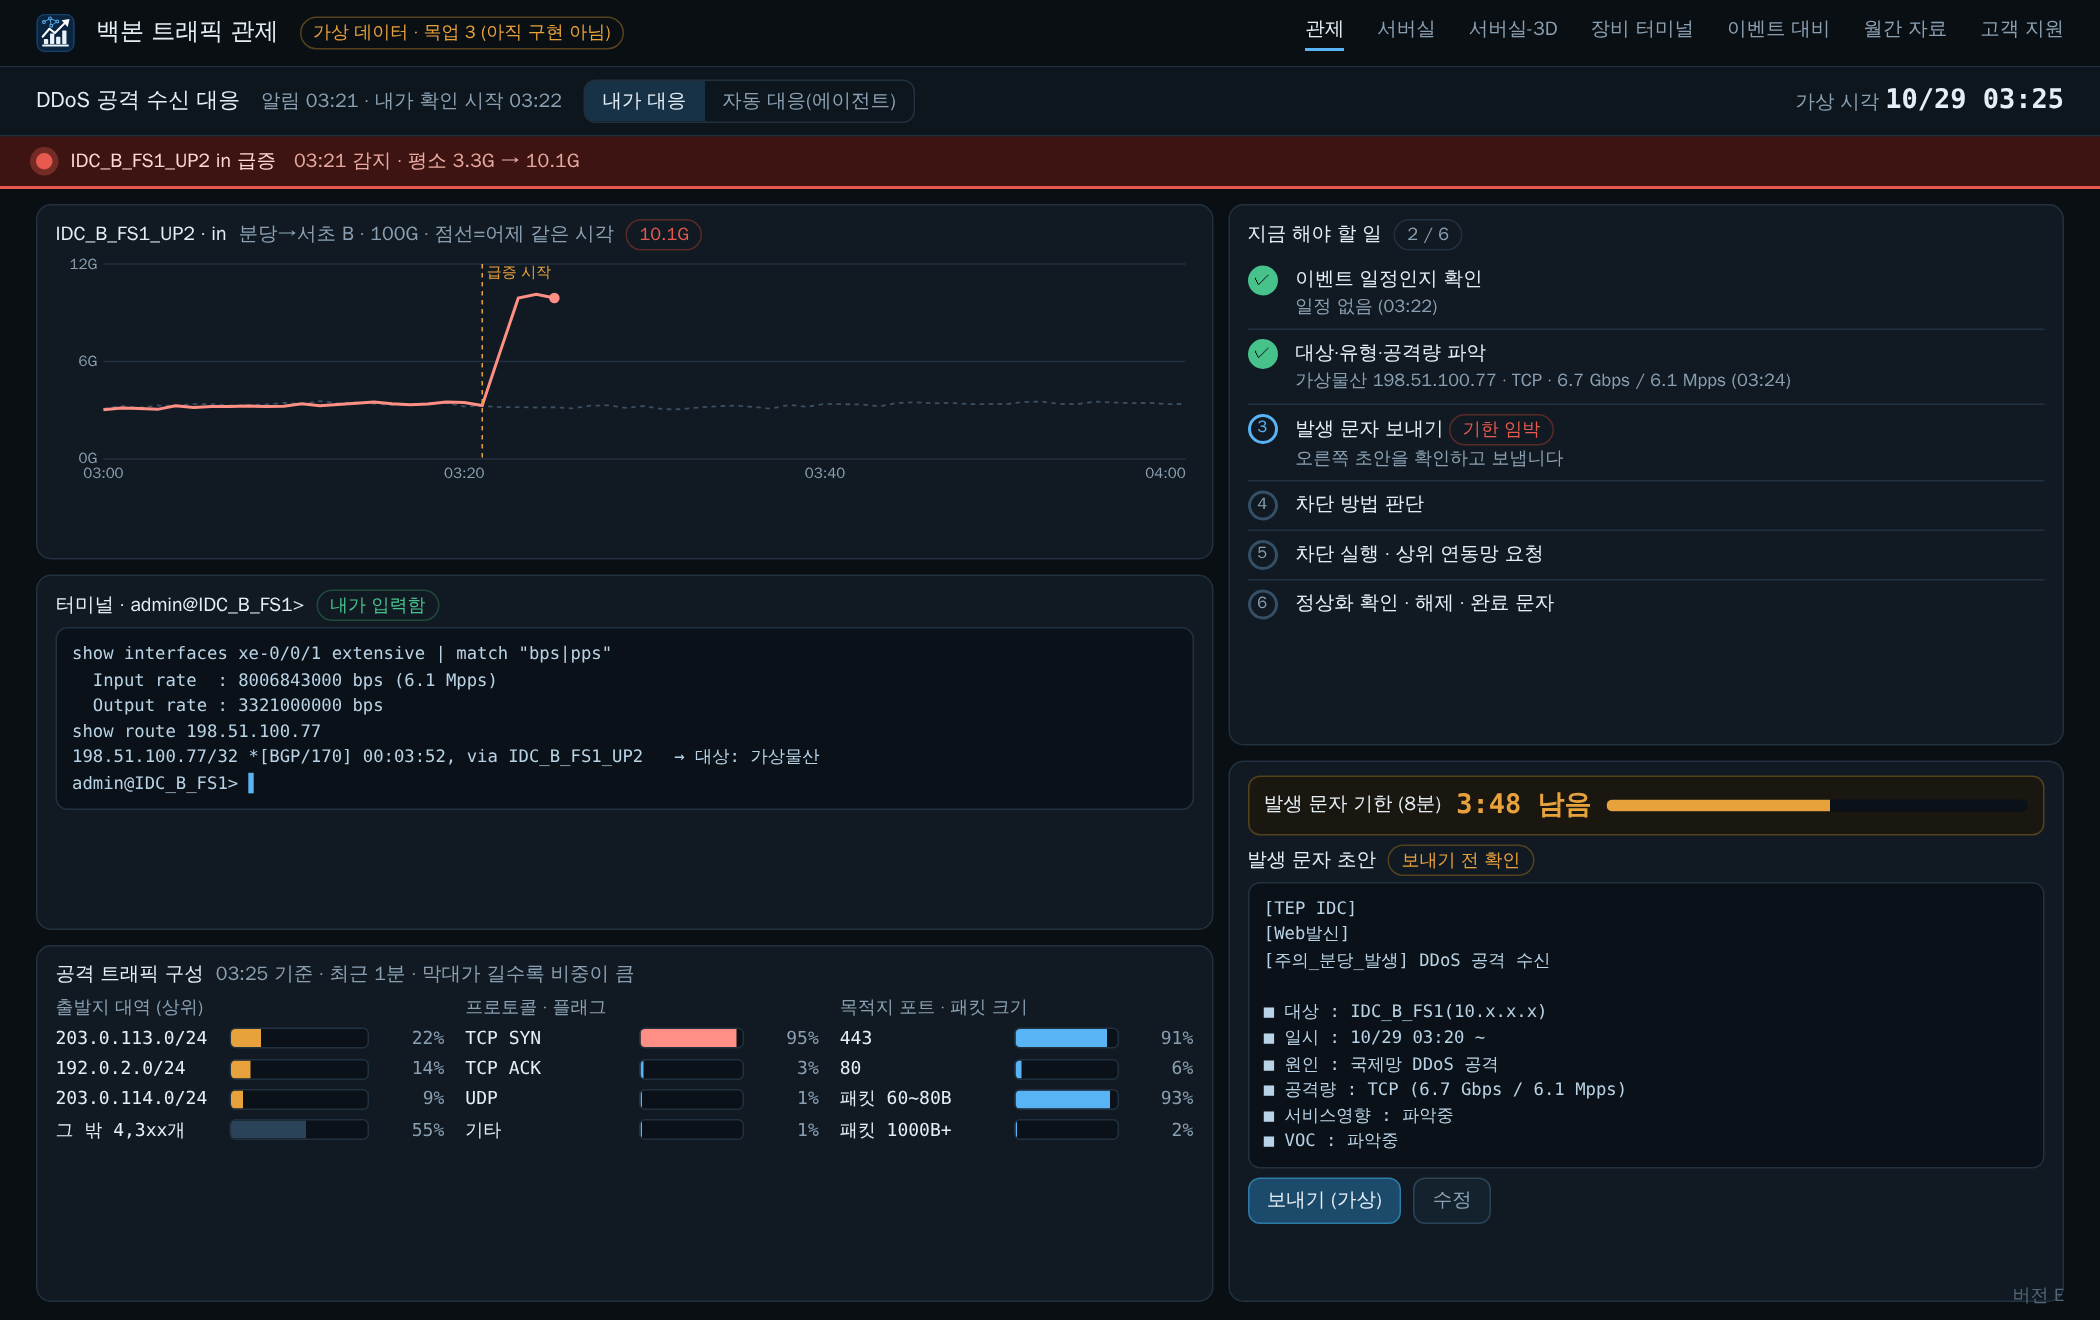
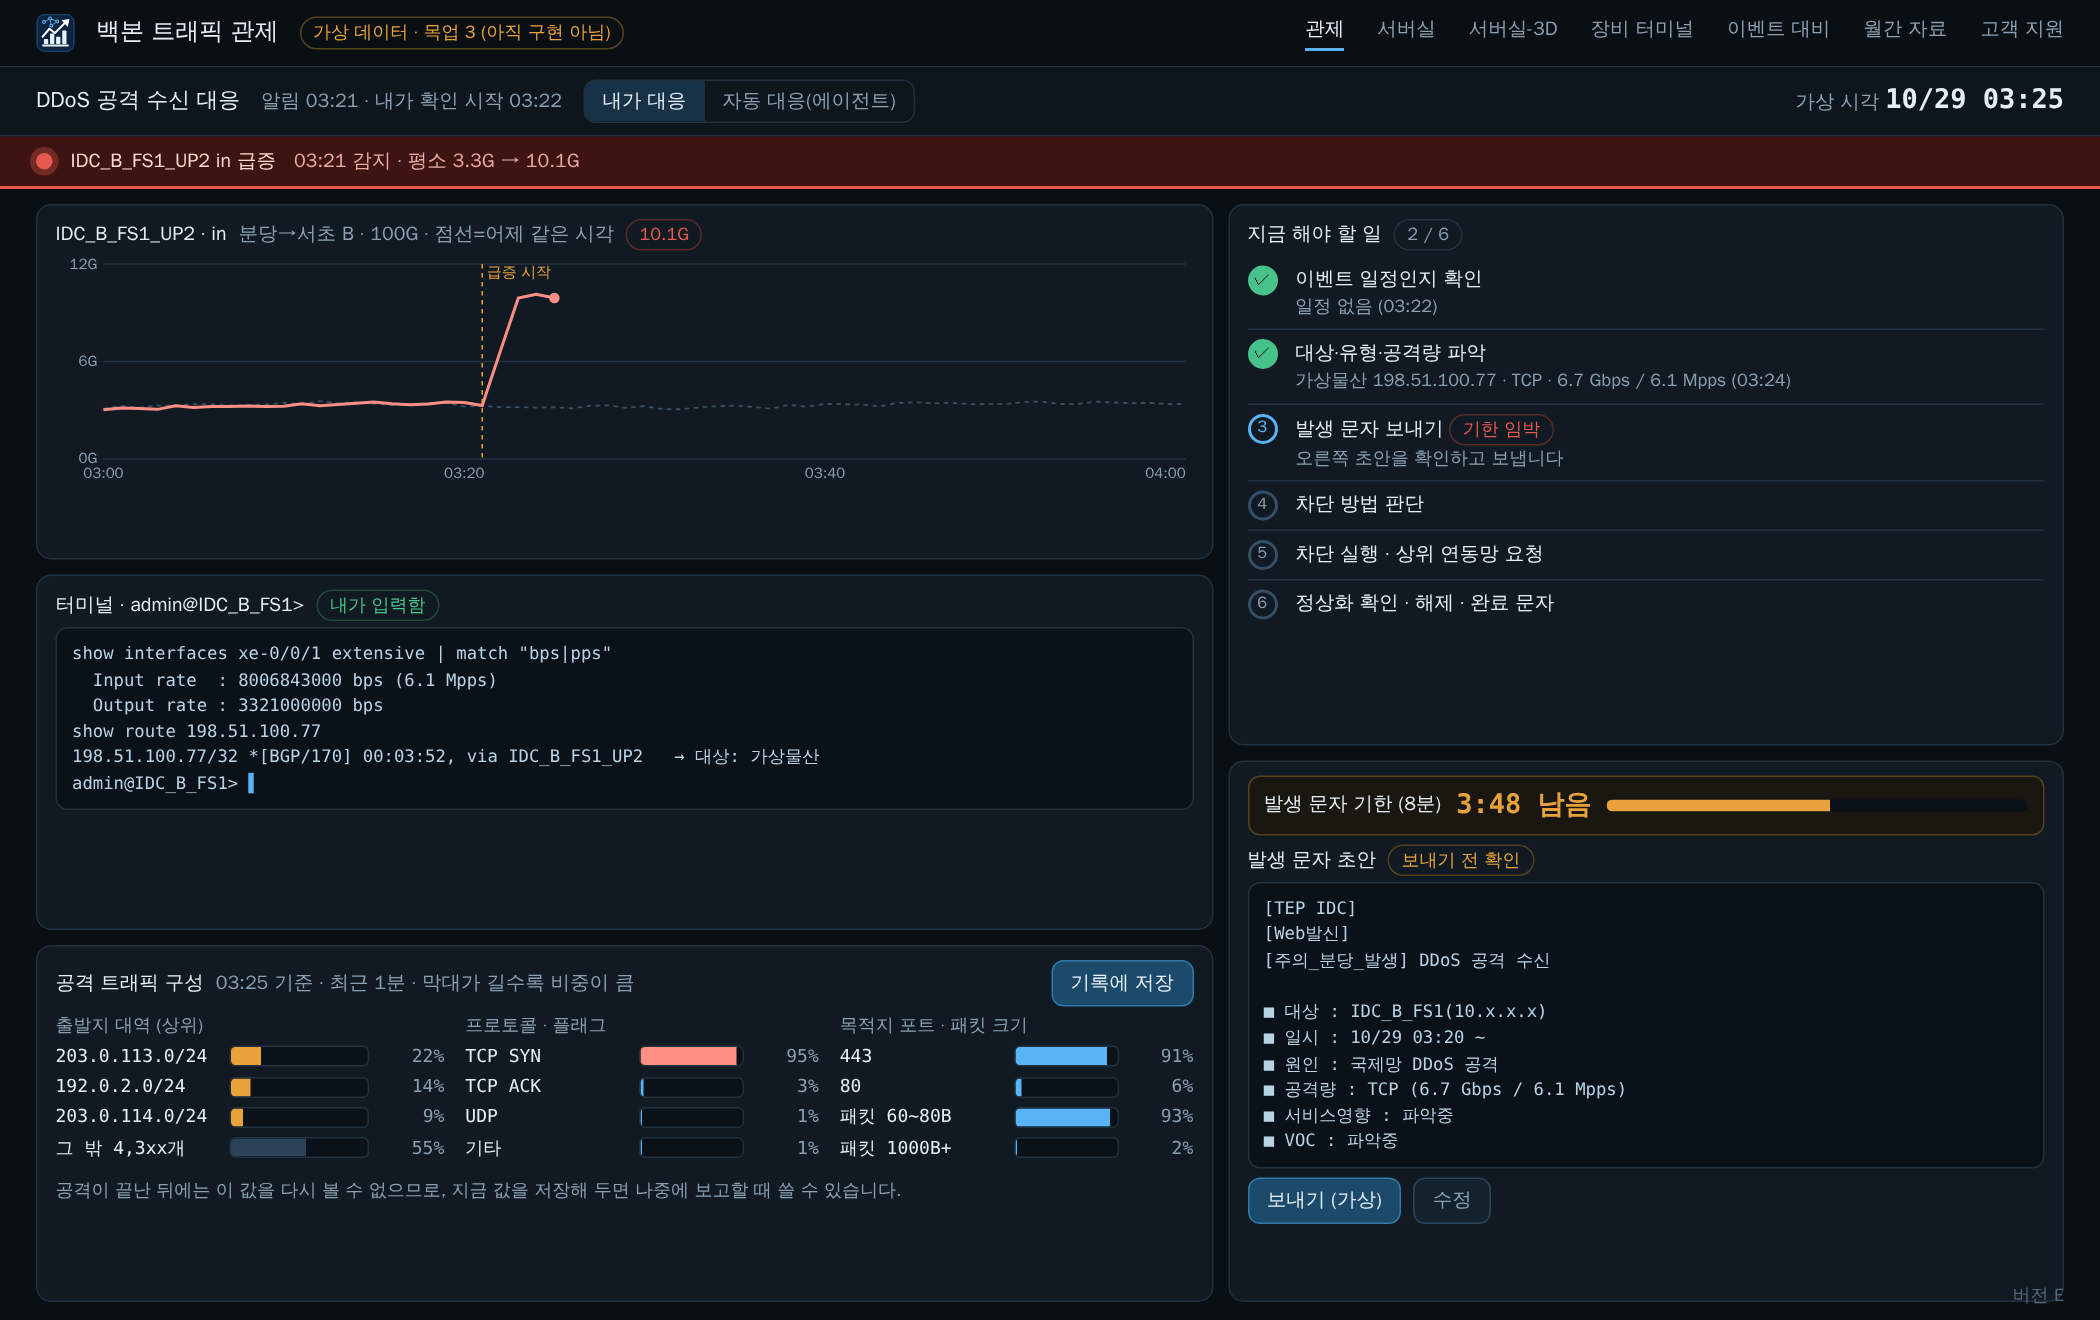
목업 3: E 확정, 기록에 저장 버튼과 저장됨 상태 추가
Claude-Session: https://claude.ai/code/session_01Vdys7igYnDHpfSsx3SS4jV

Changed region(s): [[0.031, 0.7144, 0.5881, 0.9008], [0.3095, 0.8386, 0.3405, 0.8697]]

diff --git a/docs/mockups/live-response3.html b/docs/mockups/live-response3.html
@@ -113,11 +113,11 @@ if(V=="D"){
  <tr><td class="mono">10/12</td><td>6.1G</td><td>6분</td><td>3,310</td><td><b>4%</b> (IP 176개)</td></tr>
  <tr style="color:#ff8f84"><td class="mono">10/29</td><td>10.1G</td><td>진행 중</td><td>4,402</td><td>—</td></tr></table>
  <div class="mu" style="font-size:12px;margin-top:5px">겹침 = 이전 공격의 출발지 IP가 이번에도 나온 비율. 같은 출발지인지 다른지는 이 숫자로 직접 판단합니다.</div></div></div></div>`}
-if(V=="E"){
- HBW=108;fill=`<div class="c g-fill"><h3>공격 트래픽 구성 <span class="mu">03:25 기준 · 최근 1분 · 막대가 길수록 비중이 큼</span></h3><div style="display:grid;grid-template-columns:1.1fr 1fr 1fr;gap:14px">
+if(V=="E"||V=="E2"){
+ HBW=108;const sv=V=="E2";fill=`<div class="c g-fill"><h3>공격 트래픽 구성 <span class="mu">03:25 기준 · 최근 1분 · 막대가 길수록 비중이 큼</span><span style="margin-left:auto;display:flex;gap:8px;align-items:center">${sv?'<span class="tag ok">저장됨 03:26 · 사건 기록 #1</span><span class="btn dim">다시 저장</span>':'<span class="btn pri">기록에 저장</span>'}</span></h3><div style="display:grid;grid-template-columns:1.1fr 1fr 1fr;gap:14px">
  <div><div class="mu" style="font-size:12px;margin-bottom:2px">출발지 대역 (상위)</div>${hb("203.0.113.0/24",22,"#e8a23b")}${hb("192.0.2.0/24",14,"#e8a23b")}${hb("203.0.114.0/24",9,"#e8a23b")}${hb("그 밖 4,3xx개",55,"#2b4358")}</div>
  <div><div class="mu" style="font-size:12px;margin-bottom:2px">프로토콜 · 플래그</div>${hb("TCP SYN",95,"#ff8f84")}${hb("TCP ACK",3)}${hb("UDP",1)}${hb("기타",1)}</div>
- <div><div class="mu" style="font-size:12px;margin-bottom:2px">목적지 포트 · 패킷 크기</div>${hb("443",91,"#59b4f5")}${hb("80",6)}${hb("패킷 60~80B",93,"#59b4f5","93%")}${hb("패킷 1000B+",2,"#59b4f5","2%")}</div></div></div>`}
+ <div><div class="mu" style="font-size:12px;margin-bottom:2px">목적지 포트 · 패킷 크기</div>${hb("443",91,"#59b4f5")}${hb("80",6)}${hb("패킷 60~80B",93,"#59b4f5","93%")}${hb("패킷 1000B+",2,"#59b4f5","2%")}</div></div><div class="mu" style="font-size:12px;margin-top:8px">${sv?'저장한 값은 사건 기록에 들어가고, 완료 문자의 원인·조치와 대상 고객 공격 이력(비교)에서 다시 쓸 수 있습니다. 저장 시각의 값이 그대로 남습니다.':'공격이 끝난 뒤에는 이 값을 다시 볼 수 없으므로, 지금 값을 저장해 두면 나중에 보고할 때 쓸 수 있습니다.'}</div></div>`}
 if(V=="F"){
  fill=`<div class="c g-fill"><h3>같은 장비를 쓰는 고객 회선 여유 <span class="mu">IDC_B_FS3 · 회선 사용률 · 03:25</span><span class="tag">영향 받는 곳 확인</span></h3>
  ${hb("가상물산 10G",67,"#ff8f84","6.7/10G")}${hb("모의커머스 10G",12,"#47c28b","1.2/10G")}${hb("가상은행 10G",8,"#47c28b","0.8/10G")}${hb("예시금융 1G",31,"#47c28b","0.3/1G")}${hb("IDC_B_FS3 업링크 100G",9,"#47c28b","9/100G")}
